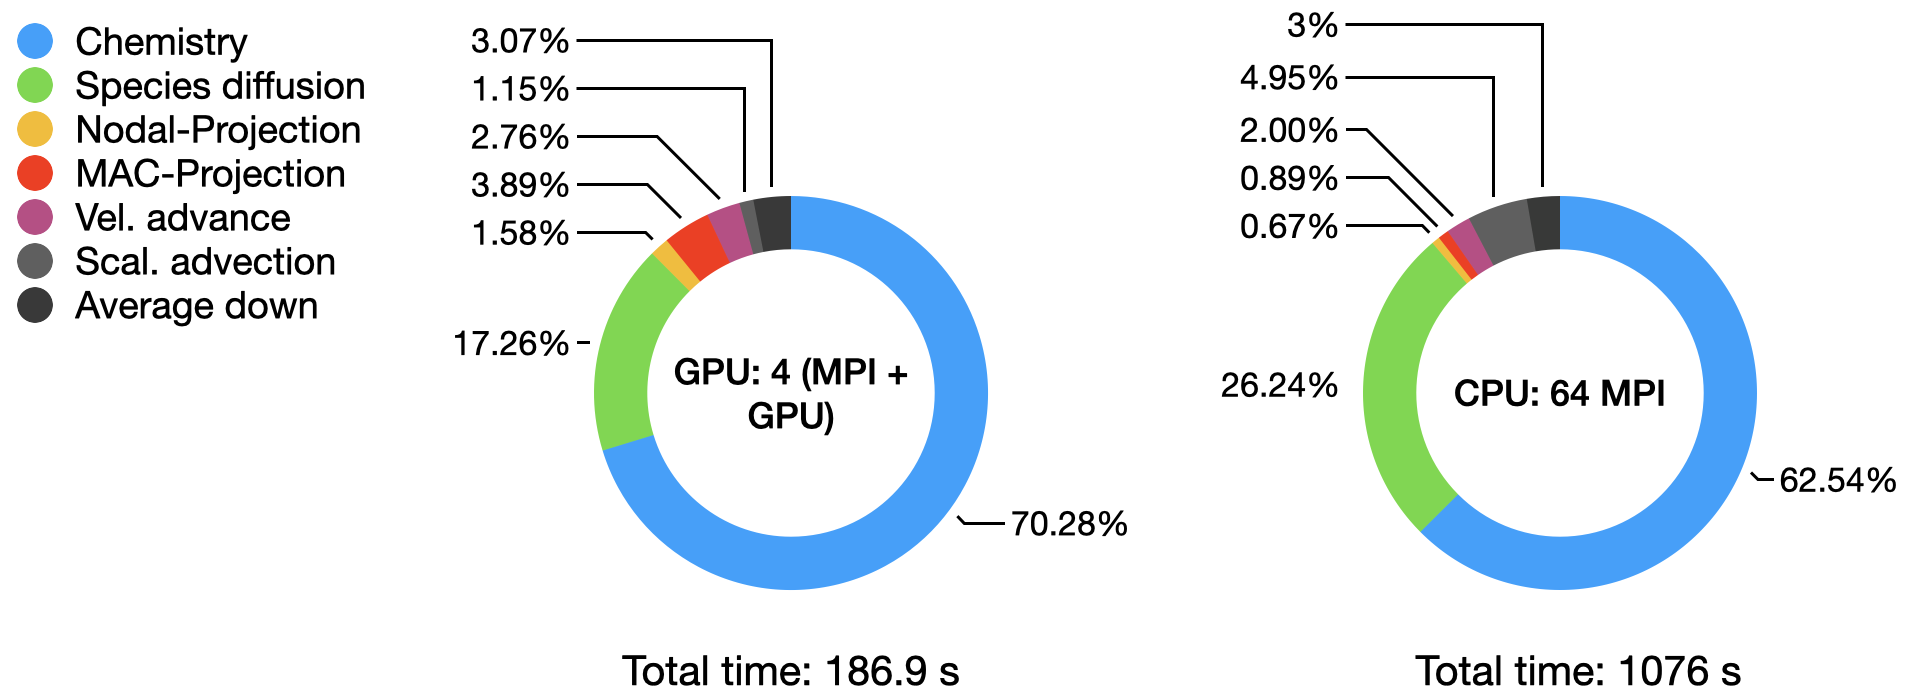
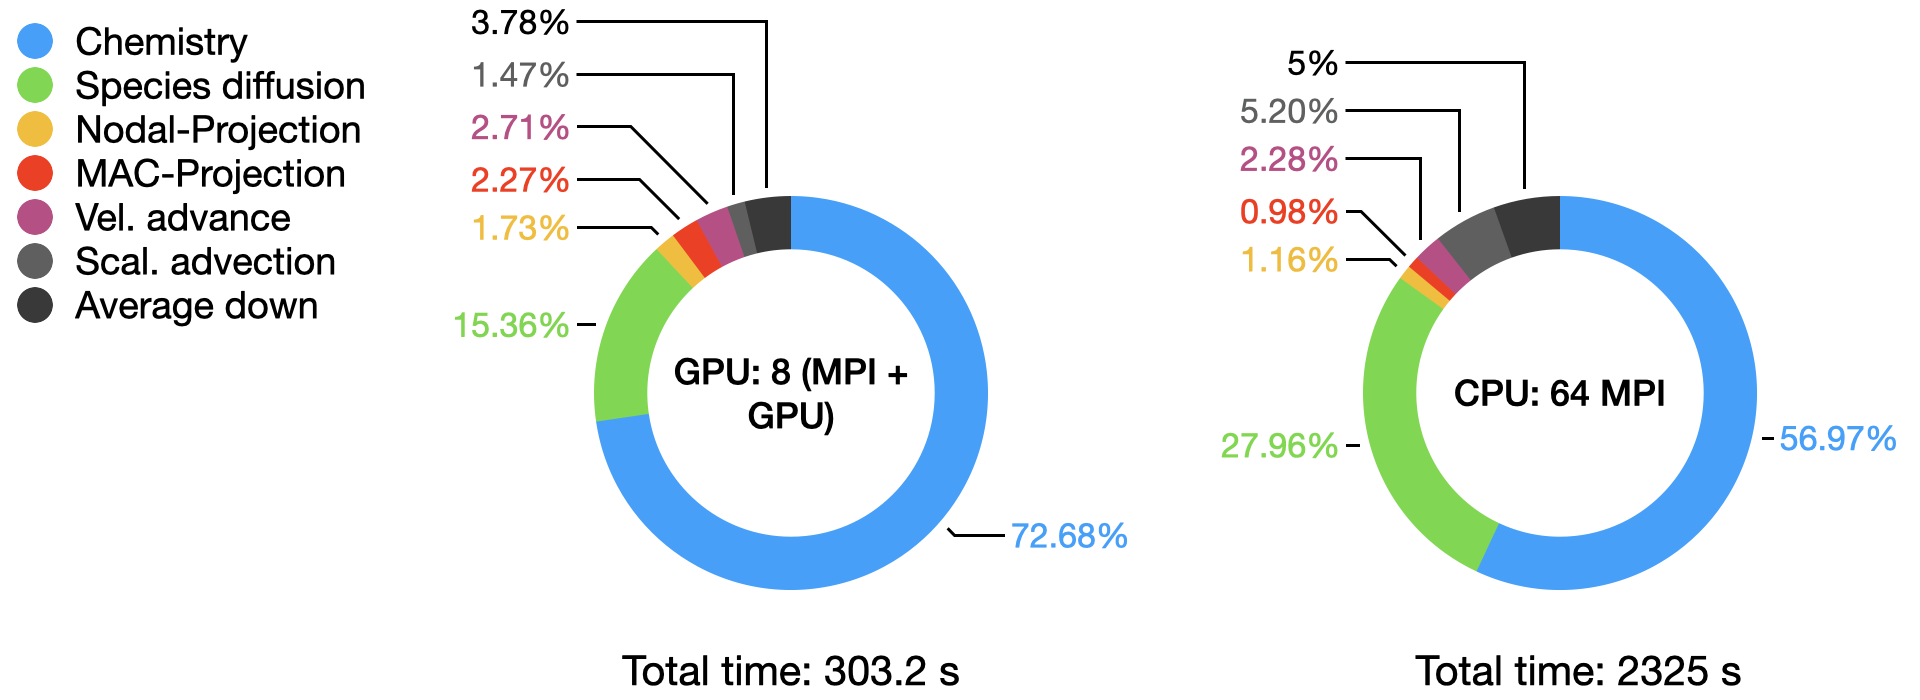
Update figures based on a same cells/GPU as PM.

diff --git a/Docs/source/manual/Performances.rst b/Docs/source/manual/Performances.rst
@@ -114,12 +114,12 @@ The FlameSheet case is ran using 2 levels of refinement (3 levels total) and the
 ::
 
     geometry.prob_lo     = 0.0 0.0 0.0        # x_lo y_lo (z_lo)
-    geometry.prob_hi     = 0.008 0.016 0.016  # x_hi y_hi (z_hi)
+    geometry.prob_hi     = 0.016 0.016 0.016  # x_hi y_hi (z_hi)
 
-    amr.n_cell           = 32 64 64
+    amr.n_cell           = 64 64 64
     amr.max_level        = 2
 
-leading to an initial cell count of 3.276 M, i.e. 0.8M/cells per GPU. The git hashes of `PeleLMeX` and its dependencies for
+leading to an initial cell count of 6.545 M, i.e. 0.8M/cells per GPU. The git hashes of `PeleLMeX` and its dependencies for
 these tests are:
 
 ::
@@ -141,6 +141,6 @@ details):
    :align: center
    :figwidth: 90%
 
-The total time comparison shows more than a 5.5x speed-up on a node basis on this platform, 
+The total time comparison shows more than a 7.5x speed-up on a node basis on this platform, 
 The detailed distribution of the computational time within each run highlight the dominant contribution
 of the stiff chemistry integration, especially on the GPU.
